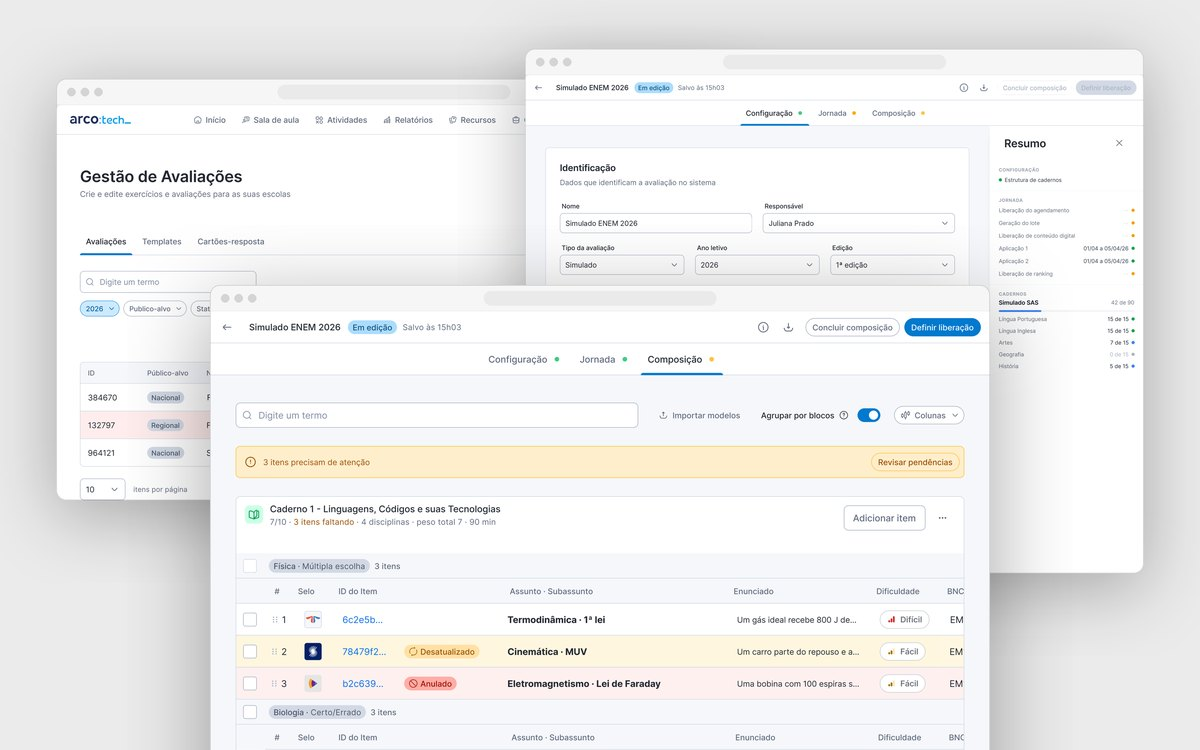
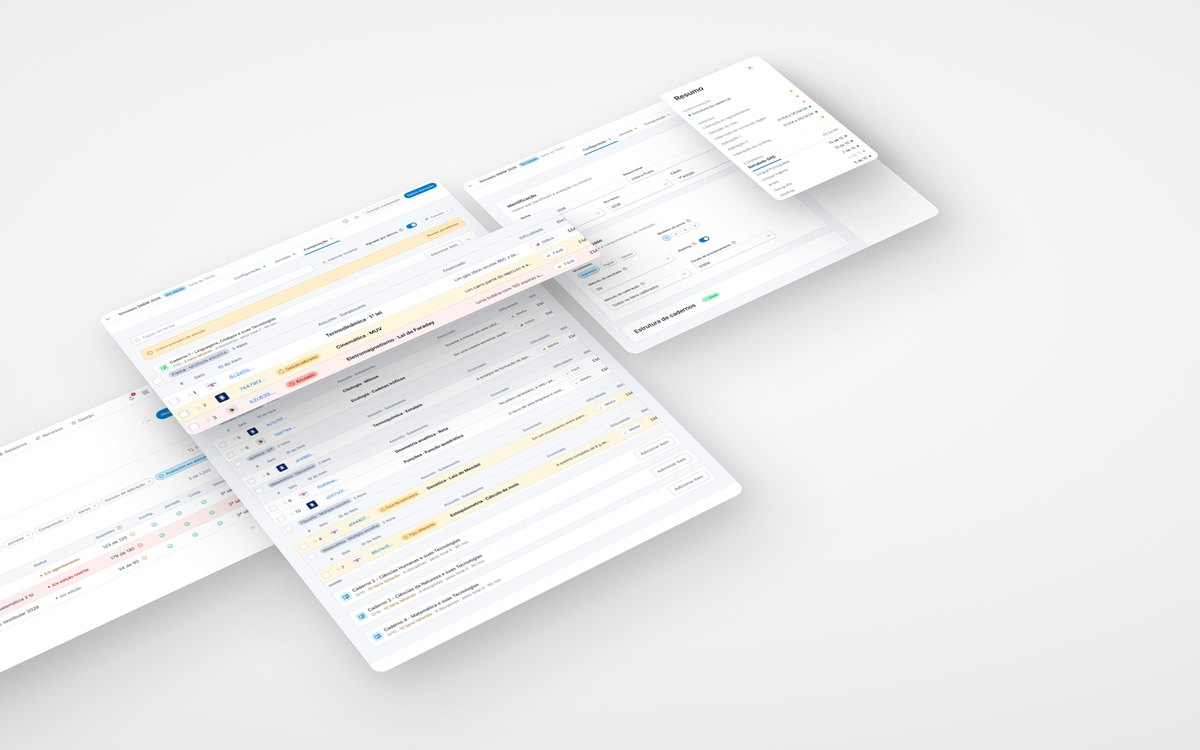
Nova capa da Gestora: mockup isométrico com camadas
Claude-Session: https://claude.ai/code/session_018VAbBkyYy86uqsWqNGdbE6

diff --git a/index.html b/index.html
@@ -64,7 +64,7 @@
         <a class="pill-btn" href="/gestora-de-avaliacoes/">Ver case <svg class="ico"><use href="#i-go"/></svg></a>
       </div>
       <a class="media-card" href="/gestora-de-avaliacoes/" aria-label="Abrir o case da Nova Gestora de Avaliações">
-        <img class="mock-img" src="/assets/media/ga-mockup.webp" width="2400" height="1500" alt="Telas da nova Gestora de Avaliações: listagem, configuração com resumo e composição com pendências" loading="lazy">
+        <img class="mock-img" src="/assets/media/ga-capa.webp" width="2400" height="1500" alt="Telas da nova Gestora de Avaliações: listagem, configuração com resumo e composição com pendências" loading="lazy">
         <span class="year">2026</span>
       </a>
     </article>

diff --git a/gestora-de-avaliacoes/index.html b/gestora-de-avaliacoes/index.html
@@ -54,7 +54,7 @@
   </section>
 
   <div class="case-hero-media rise d3">
-    <img src="/assets/media/ga-mockup.webp" width="2400" height="1500" alt="Telas da nova Gestora de Avaliações: listagem, configuração com resumo e composição com pendências">
+    <img src="/assets/media/ga-capa.webp" width="2400" height="1500" alt="Telas da nova Gestora de Avaliações: listagem, configuração com resumo e composição com pendências">
   </div>
 
   <section class="intro" id="intro">
